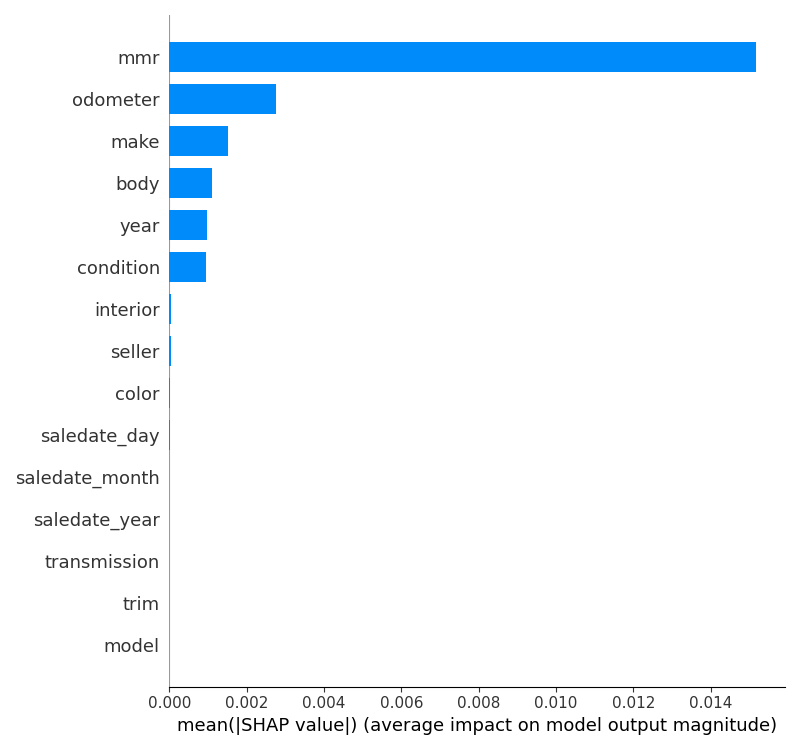
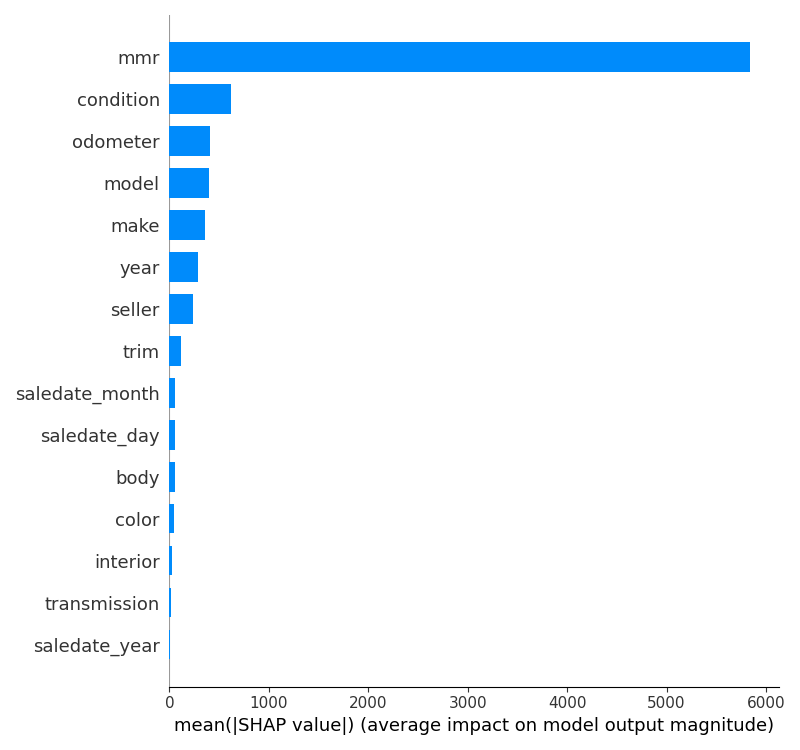
chore: fix optuna setting, remove feature scaling

diff --git a/model.py b/model.py
@@ -22,7 +22,7 @@ class LightGBM:
         param["verbosity"] = 1
         param["num_threads"] = 8
         param["device_type"] = "cpu"
-        param["early_stopping_round"] = 5
+        param["early_stopping_round"] = 10
         param["objective"] = "regression"
         param["metric"] = "rmse"
         
@@ -32,8 +32,8 @@ class LightGBM:
 
     def train(self, x_train, y_train, x_valid, y_valid):
         # Wrapping train and test dataset
-        train_data = lgb.Dataset(x_train, label=y_train)
-        test_data = lgb.Dataset(x_valid, label=y_valid)
+        train_data = lgb.Dataset(x_train, label=y_train, categorical_feature=["make", "model", "trim", "body", "transmission", "color", "interior", "seller", "saledate_day", "saledate_month", "saledate_year"])
+        test_data = lgb.Dataset(x_valid, label=y_valid, categorical_feature=["make", "model", "trim", "body", "transmission", "color", "interior", "seller", "saledate_day", "saledate_month", "saledate_year"])
 
         # Tune hyperparameter
         param = self.get_param(x_train, x_valid, y_train, y_valid)
@@ -42,7 +42,7 @@ class LightGBM:
         helper.message("[INFO] Training model with tuned hyperparameter ... ")
         self.model = lgb.train(
             param,
-            num_boost_round=300,
+            num_boost_round=200,
             train_set=train_data,
             valid_sets=[train_data, test_data],
             callbacks=[lgb.log_evaluation(), lgb.record_evaluation(eval_result=self.train_loss)]
@@ -65,7 +65,6 @@ class LightGBM:
         res = ("Evaluation Report (LightGBM)\n\n" +
                 "RMSE: " + str(root_mean_squared_error(y_valid, y_pred)) + "\n" +
                 "MAE: " + str(mean_absolute_error(y_valid, y_pred)) + "\n")
-                # + "Accuracy (1-MAPE): " + str(mean_absolute_percentage_error(y_valid, y_pred)))
         helper.message(res)
         return 0
 
@@ -77,10 +76,14 @@ class LightGBM:
 
     def eval(self, x_test, y_test):
         y_pred = self.model.predict(x_test)
+        plt.plot(list(range(len(y_pred))), y_test, label="actual")
+        plt.plot(list(range(len(y_pred))), y_pred, label="predict")
+        plt.legend()
+        plt.savefig("graphs/lgb_predict_graph.png")
+        plt.show()
         res = ("Evaluation Report (LightGBM)\n\n" +
                 "RMSE: " + str(root_mean_squared_error(y_test, y_pred)) + "\n" +
                 "MAE: " + str(mean_absolute_error(y_test, y_pred)) + "\n")
-                # + "Accuracy (1-MAPE): " + str(mean_absolute_percentage_error(y_test, y_pred)))
         helper.message(res)
         return 0
 
@@ -115,6 +118,7 @@ class CatBoost:
             x_train,
             y_train,
             eval_set=(x_valid, y_valid),
+            early_stopping_rounds=10,
             use_best_model=True
         )
         return 0
@@ -152,9 +156,13 @@ class CatBoost:
 
     def eval(self, x_test, y_test):
         y_pred = self.model.predict(x_test)
+        plt.plot(list(range(len(y_pred))), y_test, label="actual")
+        plt.plot(list(range(len(y_pred))), y_pred, label="predict")
+        plt.legend()
+        plt.savefig("graphs/cbt_predict_graph.png")
+        plt.show()
         res = (("Evaluation Report (CatBoost)\n\n" +
                 "RMSE: " + str(root_mean_squared_error(y_test, y_pred)) + "\n" +
                 "MAE: " + str(mean_absolute_error(y_test, y_pred)) + "\n"))
-                # + "Accuracy (1-MAPE): " + str(mean_absolute_percentage_error(y_test, y_pred)))
         helper.message(res)
         return 0

diff --git a/lgbm_search.py b/lgbm_search.py
@@ -6,8 +6,8 @@ import sklearn.metrics
 
 
 def objective(trial, x_train, x_test, y_train, y_test):
-    train_data = lgb.Dataset(x_train, label=y_train)
-    test_data = lgb.Dataset(x_test, label=y_test)
+    train_data = lgb.Dataset(x_train, label=y_train, categorical_feature=["make", "model", "trim", "body", "transmission", "color", "interior", "seller", "saledate_day", "saledate_month", "saledate_year"])
+    test_data = lgb.Dataset(x_test, label=y_test, categorical_feature=["make", "model", "trim", "body", "transmission", "color", "interior", "seller", "saledate_day", "saledate_month", "saledate_year"])
     param = {
         "objective": "regression",
         "metric": "rmse",
@@ -15,7 +15,7 @@ def objective(trial, x_train, x_test, y_train, y_test):
         "boosting_type": "gbdt",
         "device_type": "cpu",
         "num_threads": 8,
-        "early_stopping_round": 2,
+        "early_stopping_round": 10,
         "learning_rate": trial.suggest_float("learning_rate", 0.01, 0.3),
         "lambda_l1": trial.suggest_float("lambda_l1", 1e-8, 10.0, log=True),
         "lambda_l2": trial.suggest_float("lambda_l2", 1e-8, 10.0, log=True),
@@ -27,14 +27,14 @@ def objective(trial, x_train, x_test, y_train, y_test):
         "bagging_fraction": trial.suggest_float("bagging_fraction", 0.4, 1.0),
         "bagging_freq": trial.suggest_int("bagging_freq", 1, 7),
     }
-    gbm = lgb.train(param, train_data, valid_sets=[test_data], num_boost_round=300)
+    gbm = lgb.train(param, train_data, valid_sets=[test_data], num_boost_round=200)
     y_pred = gbm.predict(x_test)
     score = root_mean_squared_error(y_test, y_pred)
     return score
 
 
 def getHyperParameter(x_train,x_test,y_train,y_test):
-    study = optuna.create_study(direction="maximize")
+    study = optuna.create_study(direction="minimize")
     study.optimize(lambda trial: objective(trial, x_train, x_test, y_train, y_test), n_trials=30)
     print("Number of finished trials: {}".format(len(study.trials)))
     trial = study.best_trial

diff --git a/preprocessing.py b/preprocessing.py
@@ -34,21 +34,19 @@ def transform_datetime(df: pd.DataFrame, col: str):
 def car_preprocessing(df: pd.DataFrame):
     # Remove rows with missing values
     df.dropna(inplace=True)
+    # Remove rows with duplicate values
+    df.drop_duplicates(inplace=True)
     # Remove vin identifier, state
     df.drop(columns=["vin", "state"], inplace=True)
     # Split saledate into year, month, and day
     df = transform_datetime(df, "saledate")
     # Transform specified columns into categorical variables
-    # Transform specified columns into categorical variables
     df, mapper = transform_categorical(df, ["make", "model", "trim", "body", "transmission", "color", "interior", "seller"])
-    # Transform specified columns into scaled numerical variables
-    df, scaler = transform_scaling(df, ["year", "condition", "odometer", "mmr", "sellingprice"])
-    # Transform specified columns into scaled numerical variables
-    df, scaler = transform_scaling(df, ["year", "condition", "odometer", "mmr", "sellingprice"])
     df.info()
-    return df, mapper, scaler
+    return df, mapper
 
 
+# Not Used: decision tree models do not need data scaling
 def transform_scaling(df: pd.DataFrame, cols: list[str]):
     scaler = {}
     for col in cols:

diff --git a/main.py b/main.py
@@ -11,7 +11,7 @@ def main():
     # Preprocessing
     df = pd.read_csv("./data/car_prices.csv")
     helper.message("[INFO] Start preprocessing data...")
-    df, mapper, scaler = pp.car_preprocessing(df)
+    df, mapper = pp.car_preprocessing(df)
     x_train, x_test, x_valid, y_train, y_test, y_valid = pp.generate_dataset(df, "sellingprice", 0.2)
 
     # Exploratory Data Analysis

diff --git a/eda.py b/eda.py
@@ -45,5 +45,5 @@ def f_test(df: pd.DataFrame, target: str):
     )
     summary = data.sort_values(by="t-statistic", ascending=False)
     df_styled = summary.style.bar("t-statistic").background_gradient("Blues", subset="t-statistic")
-    dfi.export(df_styled, 'graphs/f_test.png')
+    dfi.export(df_styled, 'graphs/f_test.png', table_conversion="selenium")
     return data

diff --git a/catboost_search.py b/catboost_search.py
@@ -23,7 +23,7 @@ def objective(trial, x_train, x_test, y_train, y_test):
         y_train,
         eval_set=(x_test, y_test),
         use_best_model=True,
-        early_stopping_rounds=2,
+        early_stopping_rounds=10,
         verbose=False
     )
     y_pred = cbt.predict(x_test)

diff --git a/readme.md b/readme.md
@@ -3,7 +3,7 @@
 ## Requirement
 
 | Package         | Version          |
-| --------------- | ---------------- |
+|-----------------|------------------|
 | python          | 3.11.9 or above  |
 | ipython         | 8.24.0 or above  |
 | catboost        | 1.2.5 or above   |
@@ -19,5 +19,6 @@
 | setuptools      | 69.5.1 or above  |
 | Jinja2          | 3.1.4 or above   |
 | dataframe_image | 0.2.3 or above   |
+| selenium        | 4.20.0 or above  |
 
 Install these packages in your Python environment to execute the code correctly.
